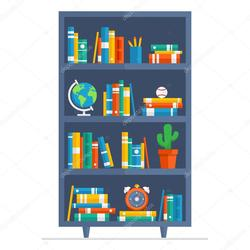
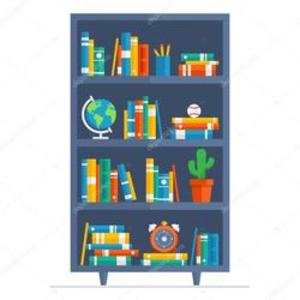
removed and resized images for larger container

diff --git a/src/QuestionList.java b/src/QuestionList.java
@@ -29,7 +29,7 @@ public class QuestionList {
       furniture.add(new PracticeQuestion("img/furniture/sofa-icon-cartoon.jpg", "Sofa", "el sofa"));
       furniture.add(new PracticeQuestion("img/furniture/cartoon-lamp.png", "Lamp", "la lampara"));
       furniture.add(new PracticeQuestion("img/furniture/bookcase-cartoon.jpg", "Bookshelf", "la estantaria"));
-      furniture.add(new PracticeQuestion("img/furniture/cartoon_closet.jpg", "Closet", "el armario"));
+      furniture.add(new PracticeQuestion("img/furniture/cartoon_clock.jpg", "Clock", "el reloj"));
       furniture.add(new PracticeQuestion("img/furniture/cushions-cartoon.jpg", "Cushions", "los cojines"));
       furniture.add(new PracticeQuestion("img/furniture/curtains-cartoon.jpg", "Curtains", "las cortinas"));
       furniture.add(new PracticeQuestion("img/furniture/cartoon-desk.jpg", "Desk", "el escritorio"));

diff --git a/src/QuestionPanel.java b/src/QuestionPanel.java
@@ -69,8 +69,8 @@ public class QuestionPanel extends JPanel implements ActionListener {
         this.setLayout(null);
 
         holdIMG.setBounds(100, 10, 300, 300);
-
-        holdIMG.setBorder(BorderFactory.createLineBorder(Color.black));
+        holdIMG.setBackground(Color.white);
+        holdIMG.setBorder(BorderFactory.createLineBorder(design.underLine));
         input.setBounds(100, 350, 300, 30);
         feedbackPanel = new JPanel();
         feedbackPanel.setLayout(new BorderLayout());
